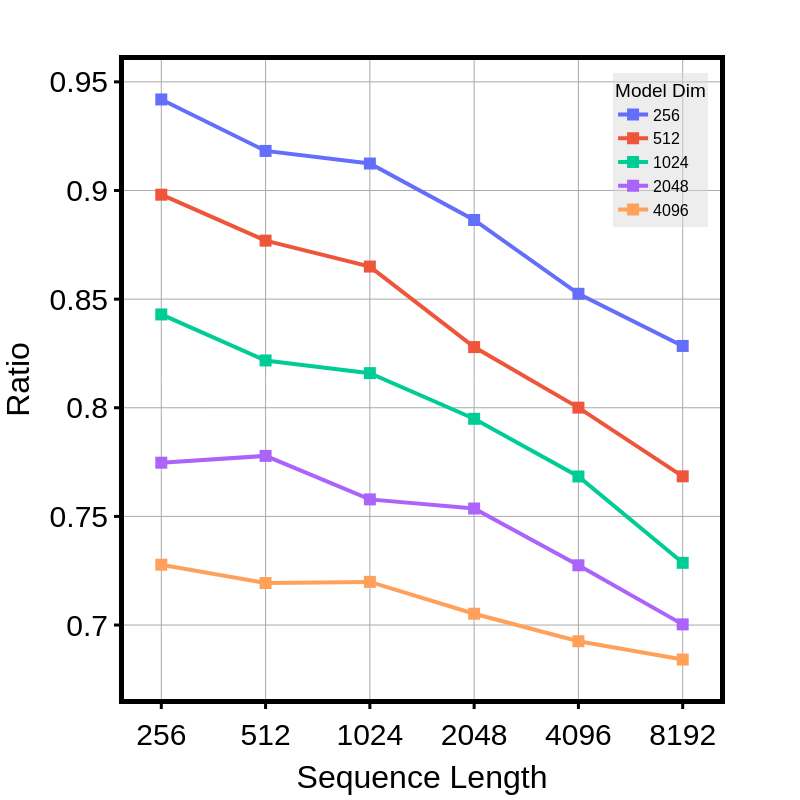
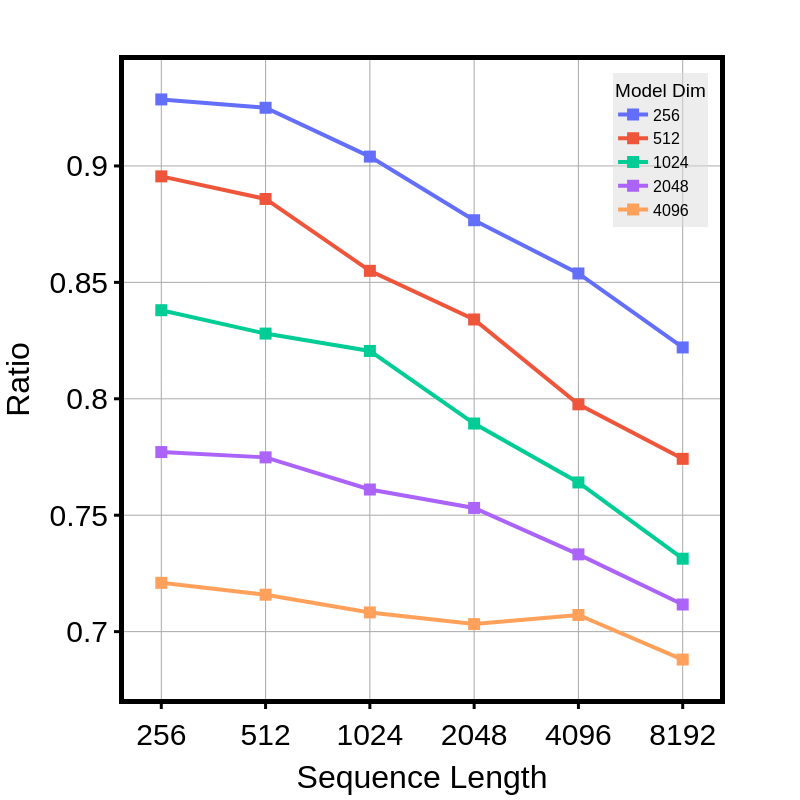
added train_time ratio - 26_2124

diff --git a/metrics_plots/images/README.md b/metrics_plots/images/README.md
@@ -12,6 +12,10 @@
 
 ![lm_test_time_ratio_2_gfish](lm_test_time_ratio_2_gfish.png)
 
+> lm_train_time_ratio_2_gfish
+
+![lm_train_time_ratio_2_gfish](lm_train_time_ratio_2_gfish.png)
+
 > lm_params_ratio_2_gfish
 
 ![lm_params_ratio_2_gfish](lm_params_ratio_2_gfish.png)
